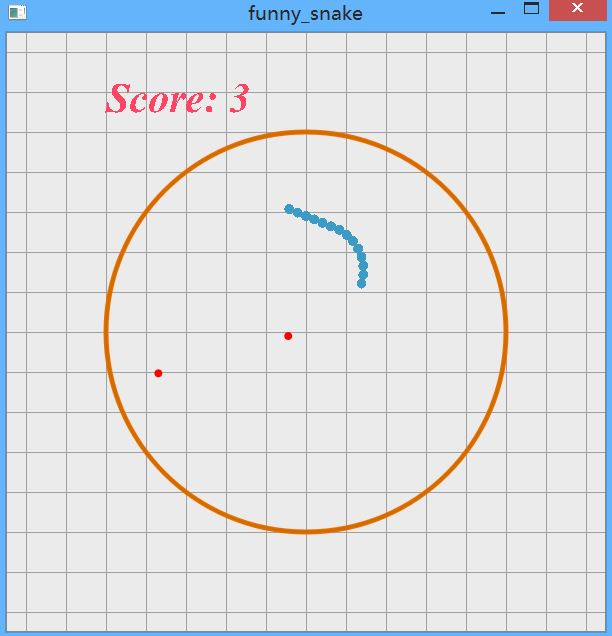
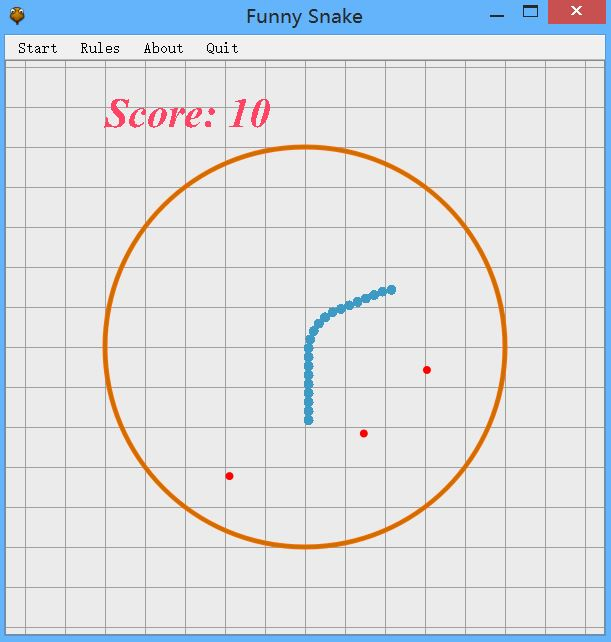
new ui

diff --git a/mainwindow.cpp b/mainwindow.cpp
@@ -1,17 +1,24 @@
 #include <QGraphicsView>
 #include <QTimer>
+#include <QMessageBox>
 #include <QDebug>
 
 #include "constants.h"
 #include "gamecontroller.h"
 #include "mainwindow.h"
+#include "ui_mainwindow.h"
 
 MainWindow::MainWindow(QWidget *parent) :
     QMainWindow(parent),
+    ui(new Ui::MainWindow),
     scene(new QGraphicsScene(this)),
     view(new QGraphicsView(scene, this)),
     game(new GameController(*scene, this))
 {
+    ui->setupUi(this);
+
+    setWindowIcon(QIcon(":/data/game-icon"));
+    setWindowTitle(tr("Funny Snake"));
     setCentralWidget(view);
     resize(600, 600);
 
@@ -53,3 +60,46 @@ void MainWindow::adjustViewSize()
     qDebug() << "In function adjustViewSize().";
 }
 
+void MainWindow::on_actionStart_triggered()
+{
+    game->mainMenu_buttonPressed();
+}
+
+void MainWindow::on_actionRules_triggered()
+{
+    QMessageBox msgBox;
+    msgBox.setWindowTitle(tr("Instructions"));
+    msgBox.setText(tr("                    ##  Game  Rules  ##\n"\
+                      "- A simple snake game!\n"\
+                      "- You can move all directions inside the wall.\n"\
+                      "- The red bean is normal (+1 pt).\n"\
+                      "- The blue bean is special (+3pts).\n"\
+                      "- Blue beans have many buffs, just have a try.\n"\
+                      "\n"\
+                      "                  ##  Keyboard Config  ##\n"\
+                      "- Main menu\n"\
+                      "    - Press ENTER to start.\n"\
+                      "- Playing\n"\
+                      "    - Press UP to start moving.\n"\
+                      "    - Press LEFT or RIGHT to change the direction.\n"\
+                      "- Game over\n"\
+                      "    - Press ENTER to back to the main menu.\n"));
+    msgBox.exec();
+}
+
+void MainWindow::on_actionAbout_triggered()
+{
+    QMessageBox msgBox;
+    msgBox.setWindowTitle(tr("About"));
+    msgBox.setText(tr("Name: funny snake\n"\
+                      "Author: Shallwe\n"\
+                      "Date: 2018/10/26\n"\
+                      "Version: Beta\n"\
+                      "Instruction: A simple snake game based on Qt5.\n"));
+    msgBox.exec();
+}
+
+void MainWindow::on_actionQuit_triggered()
+{
+    close();
+}

diff --git a/gamecontroller.cpp b/gamecontroller.cpp
@@ -64,7 +64,6 @@ void GameController::restartGame()
     scene.addItem(fd2);
     _foodEaten = 0;
 
-    resume();
 }
 
 void GameController::addNewFood()
@@ -180,6 +179,25 @@ void GameController::resume()
             &scene, SLOT(advance()));
 }
 
+void GameController::mainMenu_buttonPressed()
+{
+    qDebug() << "Press the startButton.";
+    if (_inMainMenu) {
+        disconnect(&timer, SIGNAL(timeout()),
+                this, SLOT(showMainMenu()));
+    }
+
+    if (!_inGaming) {
+        resume();
+    }
+    _inMainMenu = false;
+    _inGaming = true;
+    _inGameOver = false;
+    restartGame();
+
+
+}
+
 void GameController::mainMenu_handleKeyPressed(QKeyEvent *event)
 {
     if (!event->isAutoRepeat()) {
@@ -191,6 +209,9 @@ void GameController::mainMenu_handleKeyPressed(QKeyEvent *event)
                 disconnect(&timer, SIGNAL(timeout()),
                         this, SLOT(showMainMenu()));
 
+                if (!_inGaming) {
+                    resume();
+                }
                 _inMainMenu = false;
                 _inGaming = true;
                 _inGameOver = false;

diff --git a/mainwindow.h b/mainwindow.h
@@ -7,19 +7,30 @@ class QGraphicsScene;
 class QGraphicsView;
 class GameController;
 
+namespace Ui {
+class MainWindow;
+}
+
 class MainWindow : public QMainWindow
 {
     Q_OBJECT
 public:
-    MainWindow(QWidget *parent = 0);
+    MainWindow(QWidget *parent = nullptr);
     ~MainWindow();
 
 private slots:
     void adjustViewSize();
 
+    void on_actionStart_triggered();
+    void on_actionRules_triggered();
+    void on_actionAbout_triggered();
+    void on_actionQuit_triggered();
+
 private:
     void initScene();
     void initSceneBackground();
+
+    Ui::MainWindow *ui;
 
     QGraphicsScene *scene;
     QGraphicsView *view;

diff --git a/gamecontroller.h b/gamecontroller.h
@@ -20,6 +20,8 @@ public:
     GameController(QGraphicsScene &scene, QObject *parent = 0);
     ~GameController();
 
+    void mainMenu_buttonPressed();
+
     void snakeAteFood(Snake *snake, Food *food);
     void snakeHitWall(Snake *snake);
     void snakeAteItself(Snake *snake);
